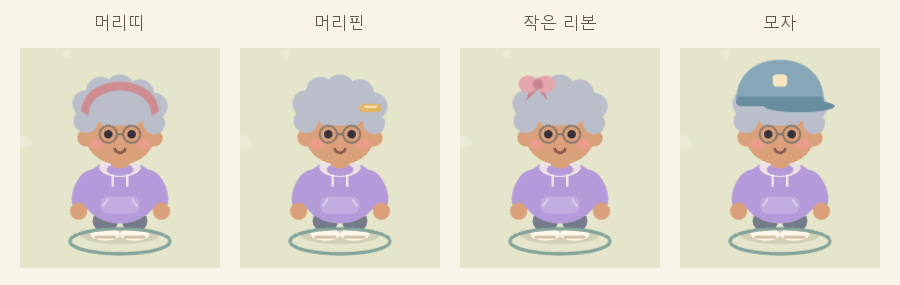
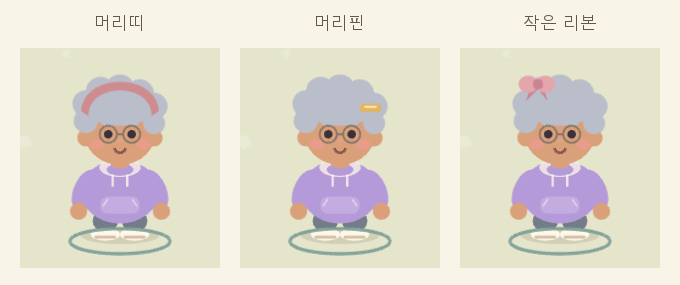
fix(game): 검토 캐릭터 모자 선택 제거

diff --git a/game/review/round/avatar.ts b/game/review/round/avatar.ts
@@ -10,7 +10,7 @@ export type ResidentDesign = {
   pants?: number;
   shoes?: number;
   glasses?: boolean;
-  headAccessory?: 'none'|'headband'|'hairpin'|'ribbon'|'cap';
+  headAccessory?: 'none'|'headband'|'hairpin'|'ribbon';
   hairColor?: number;
   hairAccent?: number;
   hairPattern?: HairPattern;
@@ -237,14 +237,6 @@ export class RoundResident {
         .fillTriangle(-9,crown+4,-7,crown+3,-5,crown+9);
       accessory.fillStyle(0xe5a5ac).fillEllipse(-13,crown+2,8,7).fillEllipse(-6,crown+2,8,7);
       accessory.fillStyle(0xc98591).fillRoundedRect(-11,crown,4,4,1.4);
-    }
-    if(decoration==='cap'){
-      const cap=new Phaser.Curves.Path(-18,crown+9)
-        .cubicBezierTo(0,crown-8,-18,crown-3,-9,crown-8)
-        .cubicBezierTo(18,crown+9,10,crown-8,18,crown-2).closePath();
-      accessory.fillStyle(0x85a7b8).fillPoints(cap.getPoints(18),true);
-      accessory.fillStyle(0x678d9f).fillRoundedRect(-18,crown+7,36,4,2).fillEllipse(8,crown+11,29,5);
-      accessory.fillStyle(0xf7e5bf).fillRoundedRect(-3,crown-2,6,5,1.5);
     }
     this.eyes = [-4.8,4.8].map(ex => s.circle(ex,-41.5,1.75,0x39313b));
     const face = s.graphics();

diff --git a/game/review/round/roster.ts b/game/review/round/roster.ts
@@ -49,7 +49,7 @@ const tops:{value:NonNullable<ResidentDesign['top']>;label:string}[]=[
 ];
 const headAccessories:{value:NonNullable<ResidentDesign['headAccessory']>;label:string}[]=[
   {value:'none',label:'없음'},{value:'headband',label:'머리띠'},{value:'hairpin',label:'머리핀'},
-  {value:'ribbon',label:'작은 리본'},{value:'cap',label:'모자'},
+  {value:'ribbon',label:'작은 리본'},
 ];
 const W=Math.min(360,innerWidth),H=showAdults?640:innerWidth<=650?Math.max(460,Math.min(640,innerHeight)):640;
 const dpr=Math.min(devicePixelRatio||1,2),reduced=matchMedia('(prefers-reduced-motion: reduce)');
